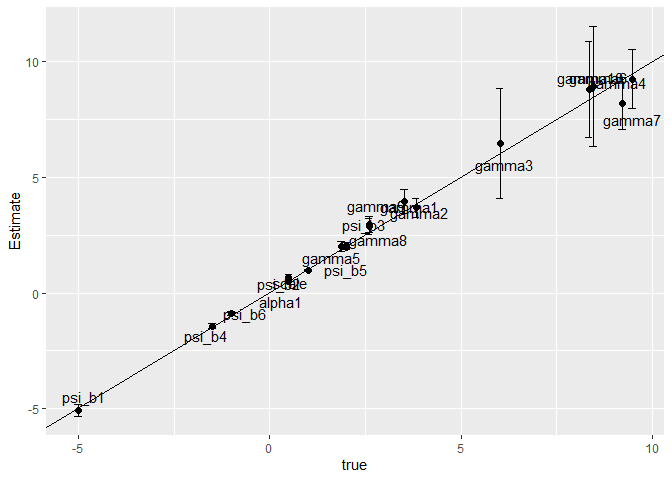
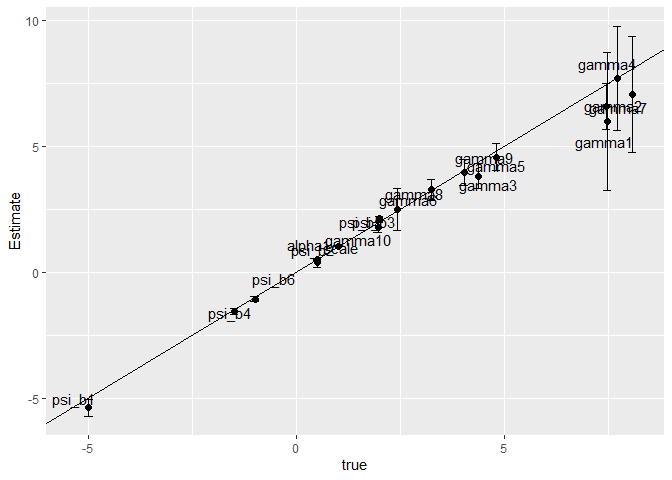
switch from Travis to GitHub actions

diff --git a/README.md b/README.md
@@ -3,8 +3,8 @@
 
 <!-- badges: start -->
 
-[![Build
-Status](https://travis-ci.org/plloydsmith/rmdcev.svg?branch=master)](https://travis-ci.org/plloydsmith/rmdcev)
+[![R build
+status](https://github.com/plloydsmith/rmdcev/workflows/R-CMD-check/badge.svg)](https://github.com/plloydsmith/rmdcev/actions)
 <!-- badges: end -->
 
 The **rmdcev** R package estimate and simulates Kuhn-Tucker demand
@@ -115,20 +115,20 @@ mdcev_est <- mdcev(~ b1 + b2 + b3 + b4 + b5 + b6,
                    model = model,
                    algorithm = "MLE")
 #> Using MLE to estimate KT model
-#> Chain 1: Initial log joint probability = -91770.7
+#> Chain 1: Initial log joint probability = -86260
 #> Chain 1:     Iter      log prob        ||dx||      ||grad||       alpha      alpha0  # evals  Notes 
 #> Chain 1: Error evaluating model log probability: Non-finite gradient.
 #> Error evaluating model log probability: Non-finite gradient.
 #> 
-#> Chain 1:       19      -36100.6      0.232987       233.736           1           1       30   
+#> Chain 1:       19      -34176.3      0.928606       434.214           1           1       31   
 #> Chain 1:     Iter      log prob        ||dx||      ||grad||       alpha      alpha0  # evals  Notes 
-#> Chain 1:       39      -35881.7      0.132855       181.545           1           1       52   
+#> Chain 1:       39      -33933.1       0.16448       51.5043           1           1       51   
 #> Chain 1:     Iter      log prob        ||dx||      ||grad||       alpha      alpha0  # evals  Notes 
-#> Chain 1:       59      -35866.5     0.0184806       4.88176           1           1       75   
+#> Chain 1:       59      -33925.2     0.0267053       15.2788           1           1       77   
 #> Chain 1:     Iter      log prob        ||dx||      ||grad||       alpha      alpha0  # evals  Notes 
-#> Chain 1:       79      -35866.4     0.0010381       1.19302           1           1      101   
+#> Chain 1:       79      -33924.9    0.00121969      0.941475           1           1       99   
 #> Chain 1:     Iter      log prob        ||dx||      ||grad||       alpha      alpha0  # evals  Notes 
-#> Chain 1:       81      -35866.4   0.000987269      0.677771           1           1      103   
+#> Chain 1:       92      -33924.9   0.000774317      0.507544      0.9556      0.9556      113   
 #> Chain 1: Optimization terminated normally: 
 #> Chain 1:   Convergence detected: relative gradient magnitude is below tolerance
 ```
@@ -144,37 +144,37 @@ summary(mdcev_est)
 #> Number of individuals            : 2000
 #> Number of non-numeraire alts     : 10
 #> Estimated parameters             : 18
-#> LL                               : -35866.41
-#> AIC                              : 71768.83
-#> BIC                              : 71869.64
+#> LL                               : -33924.91
+#> AIC                              : 67885.82
+#> BIC                              : 67986.64
 #> Standard errors calculated using : Delta method
 #> Exit of MLE                      : successful convergence
-#> Time taken (hh:mm:ss)            : 00:00:2.75
+#> Time taken (hh:mm:ss)            : 00:00:2.81
 #> 
 #> Average consumption of non-numeraire alternatives:
 #>     1     2     3     4     5     6     7     8     9    10 
-#> 21.05 13.39  1.45 16.38 21.13  3.74 14.54 11.85 16.69  2.54 
+#>  0.53 16.33 14.19  2.26 69.68  0.58  1.36 15.44 13.93 16.86 
 #> 
 #> Parameter estimates --------------------------------  
 #>           Estimate Std.err z.stat
-#> psi_b1      -5.082   0.122 -41.66
-#> psi_b2       0.659   0.074   8.91
-#> psi_b3       2.042   0.065  31.41
-#> psi_b4      -1.438   0.053 -27.13
-#> psi_b5       1.975   0.047  42.02
-#> psi_b6      -0.897   0.049 -18.31
-#> gamma_1      3.681   0.216  17.04
-#> gamma_2      3.976   0.267  14.89
-#> gamma_3      6.467   1.206   5.36
-#> gamma_4      9.246   0.652  14.18
-#> gamma_5      2.008   0.117  17.16
-#> gamma_6      8.791   1.061   8.29
-#> gamma_7      8.215   0.571  14.39
-#> gamma_8      2.875   0.181  15.89
-#> gamma_9      2.963   0.169  17.53
-#> gamma_10     8.937   1.319   6.78
-#> alpha_num    0.518   0.008  64.74
-#> scale        0.986   0.015  65.75
+#> psi_b1      -5.382   0.168 -32.03
+#> psi_b2       0.364   0.099   3.68
+#> psi_b3       2.088   0.060  34.80
+#> psi_b4      -1.553   0.059 -26.32
+#> psi_b5       2.123   0.052  40.82
+#> psi_b6      -1.074   0.055 -19.53
+#> gamma_1      5.993   1.399   4.28
+#> gamma_2      6.580   0.460  14.31
+#> gamma_3      3.814   0.259  14.73
+#> gamma_4      7.681   1.052   7.30
+#> gamma_5      4.556   0.274  16.63
+#> gamma_6      2.493   0.425   5.87
+#> gamma_7      7.059   1.173   6.02
+#> gamma_8      3.265   0.208  15.70
+#> gamma_9      3.952   0.260  15.20
+#> gamma_10     1.767   0.102  17.32
+#> alpha_num    0.489   0.011  44.43
+#> scale        1.033   0.016  64.59
 #> Note: All non-numeraire alpha's fixed to 0.
 ```
 
@@ -189,24 +189,24 @@ coefs <- as_tibble(sim.data$parms_true) %>%
 
 head(coefs, 200)
 #>      parms      true Estimate Std.err z.stat    cl_lo    cl_hi
-#> 1   psi_b1 -5.000000   -5.082   0.122 -41.66 -5.32112 -4.84288
-#> 2   psi_b2  0.500000    0.659   0.074   8.91  0.51396  0.80404
-#> 3   psi_b3  2.000000    2.042   0.065  31.41  1.91460  2.16940
-#> 4   psi_b4 -1.500000   -1.438   0.053 -27.13 -1.54188 -1.33412
-#> 5   psi_b5  2.000000    1.975   0.047  42.02  1.88288  2.06712
-#> 6   psi_b6 -1.000000   -0.897   0.049 -18.31 -0.99304 -0.80096
-#> 7   gamma1  3.823750    3.681   0.216  17.04  3.25764  4.10436
-#> 8   gamma2  3.524959    3.976   0.267  14.89  3.45268  4.49932
-#> 9   gamma3  6.022275    6.467   1.206   5.36  4.10324  8.83076
-#> 10  gamma4  9.488652    9.246   0.652  14.18  7.96808 10.52392
-#> 11  gamma5  1.878443    2.008   0.117  17.16  1.77868  2.23732
-#> 12  gamma6  8.347107    8.791   1.061   8.29  6.71144 10.87056
-#> 13  gamma7  9.217354    8.215   0.571  14.39  7.09584  9.33416
-#> 14  gamma8  2.597435    2.875   0.181  15.89  2.52024  3.22976
-#> 15  gamma9  2.613302    2.963   0.169  17.53  2.63176  3.29424
-#> 16 gamma10  8.459189    8.937   1.319   6.78  6.35176 11.52224
-#> 17  alpha1  0.500000    0.518   0.008  64.74  0.50232  0.53368
-#> 18   scale  1.000000    0.986   0.015  65.75  0.95660  1.01540
+#> 1   psi_b1 -5.000000   -5.382   0.168 -32.03 -5.71128 -5.05272
+#> 2   psi_b2  0.500000    0.364   0.099   3.68  0.16996  0.55804
+#> 3   psi_b3  2.000000    2.088   0.060  34.80  1.97040  2.20560
+#> 4   psi_b4 -1.500000   -1.553   0.059 -26.32 -1.66864 -1.43736
+#> 5   psi_b5  2.000000    2.123   0.052  40.82  2.02108  2.22492
+#> 6   psi_b6 -1.000000   -1.074   0.055 -19.53 -1.18180 -0.96620
+#> 7   gamma1  7.478434    5.993   1.399   4.28  3.25096  8.73504
+#> 8   gamma2  7.460036    6.580   0.460  14.31  5.67840  7.48160
+#> 9   gamma3  4.381761    3.814   0.259  14.73  3.30636  4.32164
+#> 10  gamma4  7.720269    7.681   1.052   7.30  5.61908  9.74292
+#> 11  gamma5  4.819395    4.556   0.274  16.63  4.01896  5.09304
+#> 12  gamma6  2.431377    2.493   0.425   5.87  1.66000  3.32600
+#> 13  gamma7  8.083688    7.059   1.173   6.02  4.75992  9.35808
+#> 14  gamma8  3.240990    3.265   0.208  15.70  2.85732  3.67268
+#> 15  gamma9  4.032100    3.952   0.260  15.20  3.44240  4.46160
+#> 16 gamma10  1.962492    1.767   0.102  17.32  1.56708  1.96692
+#> 17  alpha1  0.500000    0.489   0.011  44.43  0.46744  0.51056
+#> 18   scale  1.000000    1.033   0.016  64.59  1.00164  1.06436
 ```
 
 Compare outputs using a figure
@@ -246,11 +246,11 @@ wtp <- mdcev.sim(df_sim$df_indiv,
                  sim_type = "welfare")
 #> Using general approach in simulation...
 #> 
-#> 6.00e+04simulations finished in0.41minutes.(2414per second)
+#> 6.00e+04simulations finished in0.39minutes.(2562per second)
 summary(wtp)
 #> # A tibble: 2 x 5
-#>   policy      mean std.dev `ci_lo2.5%` `ci_hi97.5%`
-#>   <chr>      <dbl>   <dbl>       <dbl>        <dbl>
-#> 1 policy1 4.07e-11      NA    4.07e-11     4.07e-11
-#> 2 policy2 4.07e-11      NA    4.07e-11     4.07e-11
+#>   policy       mean std.dev `ci_lo2.5%` `ci_hi97.5%`
+#>   <chr>       <dbl>   <dbl>       <dbl>        <dbl>
+#> 1 policy1 -7.91e-11      NA   -7.91e-11    -7.91e-11
+#> 2 policy2 -7.91e-11      NA   -7.91e-11    -7.91e-11
 ```
